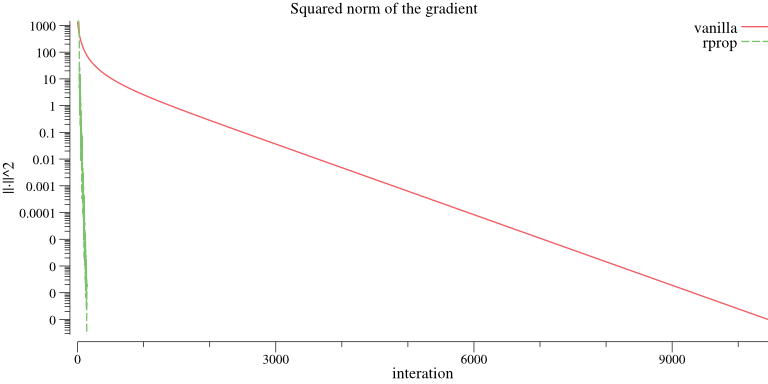
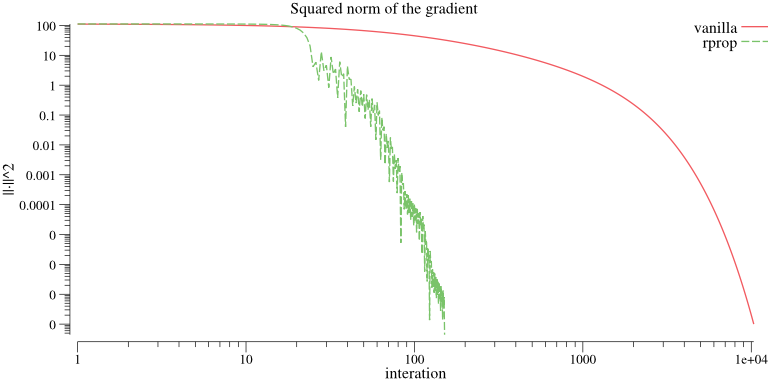
2015/11/23-09:23:36 (Darwin sirius.local i386)

diff --git a/demo/example1/example1.go b/demo/example1/example1.go
@@ -34,11 +34,11 @@ func plotGradientNorm(gn1, gn2 []float64) {
   xy2 := make(plotter.XYs, len(gn2))
 
   for i := 0; i < len(gn1); i++ {
-    xy1[i].X = float64(i)
+    xy1[i].X = float64(i)+1
     xy1[i].Y = gn1[i]
   }
   for i := 0; i < len(gn2); i++ {
-    xy2[i].X = float64(i)
+    xy2[i].X = float64(i)+1
     xy2[i].Y = gn2[i]
   }
 
@@ -49,7 +49,9 @@ func plotGradientNorm(gn1, gn2 []float64) {
   p.Title.Text = "Squared norm of the gradient"
   p.X.Label.Text = "interation"
   p.Y.Label.Text = "||·||^2"
+  p.X.Scale = plot.LogScale{}
   p.Y.Scale = plot.LogScale{}
+  p.X.Tick.Marker = plot.LogTicks{}
   p.Y.Tick.Marker = plot.LogTicks{}
   p.Legend.Top = true
 
@@ -72,7 +74,7 @@ func main() {
     // x^4 - 3x^3 + 2
     return Add(Sub(Pow(x[0], 4), Mul(NewConstant(3), Pow(x[0], 3))), NewConstant(2))
   }
-  x0 := NewVector([]float64{8})
+  x0 := NewVector([]float64{4})
   // vanilla gradient descent
   xn1, err1 := GradientDescent(f, x0, 0.0001, 1e-8)
   // resilient backpropagation
